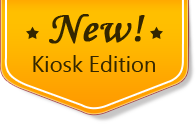
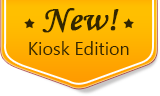
Scroll, form, video updates

diff --git a/desktop.bundles/index/index.bemjson.js b/desktop.bundles/index/index.bemjson.js
@@ -128,37 +128,37 @@ module.exports = {
                                         content: [
                                             {
                                                 block: 'input',
-                                                mods: { theme: 'islands', size: 'm', width: 'available' },
+                                                mods: { theme: 'islands', size: 'xl', width: 'available' },
                                                 name: 'Subject',
                                                 placeholder: 'Subject'
                                             },
                                             {
                                                 block: 'textarea',
-                                                mods: { theme: 'islands', size: 'm', width: 'available' },
+                                                mods: { theme: 'islands', size: 'xl', width: 'available' },
                                                 name: 'Message',
                                                 placeholder: 'Enter your message here...'
                                             },
                                             {
                                                 block: 'input',
-                                                mods: { theme: 'islands', size: 'm', width: 'available' },
+                                                mods: { theme: 'islands', size: 'xl', width: 'available' },
                                                 name: 'Name',
                                                 placeholder: 'Your name'
                                             },
                                             {
                                                 block: 'input',
-                                                mods: { theme: 'islands', size: 'm', width: 'available' },
+                                                mods: { theme: 'islands', size: 'xl', width: 'available' },
                                                 name: 'Organization',
                                                 placeholder: 'Your organization'
                                             },
                                             {
                                                 block: 'input',
-                                                mods: { theme: 'islands', size: 'm', width: 'available' },
+                                                mods: { theme: 'islands', size: 'xl', width: 'available' },
                                                 name: 'Email',
                                                 placeholder: 'Your email'
                                             },
                                             {
                                                 block: 'button',
-                                                mods: { theme: 'md', size: 'm', type: 'submit' },
+                                                mods: { theme: 'md', size: 'm', type: 'submit', disabled: true },
                                                 mix: { block: 'form', elem: 'submit' },
                                                 text: 'Send'
                                             },
@@ -174,16 +174,19 @@ module.exports = {
                                 block: 'section',
                                 elem: 'thanks',
                                 elemMods: { hidden: true },
-                                content: [
-                                    {
-                                        elem: 'thanks-main',
-                                        content: 'Thanks for your message.'
-                                    },
-                                    {
-                                        elem: 'thanks-sub',
-                                        content: 'Please allow 1-2 business days for a response.'
-                                    }
-                                ]
+                                content: {
+                                    elem: 'thanks-inner',
+                                    content: [
+                                        {
+                                            elem: 'thanks-main',
+                                            content: 'Thanks for your message.'
+                                        },
+                                        {
+                                            elem: 'thanks-sub',
+                                            content: 'Please allow 1-2 business days for a response.'
+                                        }
+                                    ]
+                                }
                             }
                         ]
                     }

diff --git a/common.blocks/section/_type/section_type_main.js b/common.blocks/section/_type/section_type_main.js
@@ -1,12 +1,12 @@
-modules.define('section', ['i-bem__dom', 'button', 'modal', 'jquery'],
-    function(provide, BEMDOM, Button, Modal, $) {
+modules.define('section', ['i-bem__dom', 'button', 'modal', 'jquery', 'input', 'textarea'],
+    function(provide, BEMDOM, Button, Modal, $, Input, Textarea) {
 
 provide(BEMDOM.decl({ block: this.name, modName: 'type', modVal: 'main' }, {
     onSetMod: {
         js: {
             inited: function() {
-                this
-                    ._initVideo()
+                this.__base.apply(this, arguments);
+                this._initVideo()
                     ._initFeedback();
             }
         }
@@ -14,9 +14,14 @@ provide(BEMDOM.decl({ block: this.name, modName: 'type', modVal: 'main' }, {
     _initFeedback: function() {
         var feedbackLink = this.findBlockOn(this.elem('feedback'), 'link'),
             modal = this.findBlockOn(this.elem('feedback'), 'modal'),
-            form = modal.findBlockInside('form'),
+            form = this._form = modal.findBlockInside('form'),
             feedbackForm = this.elem('feedback-form'),
             thanks = this.elem('thanks');
+
+        this._submitButton = form.findBlockInside({ block: 'button', modName: 'type', modVal: 'submit' });
+
+        Input.on(form.domElem, 'change', this.validateForm, this);
+        Textarea.on(form.domElem, 'change', this.validateForm, this);
 
         feedbackLink.on('click', function() {
             modal.setMod('visible');
@@ -25,7 +30,7 @@ provide(BEMDOM.decl({ block: this.name, modName: 'type', modVal: 'main' }, {
         form.on('submit', function(e) {
             e.preventDefault();
 
-            console.log(form.domElem.serializeArray());
+            // console.log(form.domElem.serializeArray());
 
             $.post('http://www.magicdesktop.com/en-US/Support', form.domElem.serializeArray())
                 .done(function() {
@@ -36,6 +41,9 @@ provide(BEMDOM.decl({ block: this.name, modName: 'type', modVal: 'main' }, {
                 });
             // method: 'post',
             // action: 'http://www.magicdesktop.com/en-US/Support',
+
+            thanks.width(feedbackForm.width());
+            thanks.height(feedbackForm.height());
 
             this
                 .setMod(feedbackForm, 'hidden')
@@ -54,6 +62,13 @@ provide(BEMDOM.decl({ block: this.name, modName: 'type', modVal: 'main' }, {
         }, this);
 
         return this;
+    },
+    validateForm: function() {
+        var isFormFilled = this._form.domElem.serializeArray().every(function(formDataItem) {
+            return formDataItem.value;
+        });
+
+        this._submitButton.setMod('disabled', !isFormFilled);
     },
     _initVideo: function() {
         var modal = this.findBlockOn(this.elem('video-modal'), 'modal'),

diff --git a/common.blocks/page/page.js b/common.blocks/page/page.js
@@ -1,0 +1,50 @@
+modules.define('page', ['i-bem__dom', 'scroll'], function(provide, BEMDOM, Scroll) {
+
+provide(BEMDOM.decl(this.name, {
+    onSetMod: {
+        js: {
+            inited: function() {
+                this.sectionIds = ['main', 'values'];
+                this._sections = this.findBlocksInside('section');
+                this._scroll = new Scroll(document.body);
+
+                var hash = window.location.hash.substr(1) || 'main';
+                this._currentSectionIdx = this.sectionIds.indexOf(hash);
+
+                this._scrollY = this.getScrollY();
+                // TODO: тротлинг
+                this.bindToWin('scroll', this._onScroll);
+            }
+        }
+    },
+    getScrollY: function() {
+        return window.pageYOffset || document.documentElement.scrollTop;
+    },
+    _onScroll: function() {
+        var _this = this,
+            currentY = this.getScrollY(),
+            isMovingDown = currentY - this._scrollY > 0;
+
+        this._scrollY = currentY;
+        this._currentSectionIdx = isMovingDown ? this._currentSectionIdx + 1 : this._currentSectionIdx - 1;
+
+        if (this._currentSectionIdx >= this._sections.length)  {
+            this._currentSectionIdx = this._sections.length - 1;
+            return;
+        } else if (this._currentSectionIdx < 0) {
+            this._currentSectionIdx = 0;
+            return;
+        }
+
+        this.unbindFromWin('scroll', this._onScroll);
+
+        var nextSection = this._sections[this._currentSectionIdx].domElem[0];
+
+        this._scroll.toElement(nextSection, { duration: 500 }).then(function() {
+            window.location.hash = _this.sectionIds[_this._currentSectionIdx];
+            _this.bindToWin('scroll', _this._onScroll);
+        });
+    }
+}));
+
+});

diff --git a/common.blocks/section/_type/section_type_values.css b/common.blocks/section/_type/section_type_values.css
@@ -34,16 +34,18 @@
     border-radius: 50%;
 
     background: #fff no-repeat 50% 50%;
-    box-shadow: 0 2px rgba(0, 0, 0, .5);
+    box-shadow: 0 2px rgba(0, 0, 0, .2);
 
     content: "";
 }
 
 .section__values .dl__dt_type_cost:before {
+    background-position: 50% 10px;
     background-image: url(dl__dt_type_cost.png);
 }
 
 .section__values .dl__dt_type_content:before {
+    background-position: 50% 18px;
     background-image: url(dl__dt_type_content.png);
 }
 
@@ -56,5 +58,6 @@
 }
 
 .section__values .dl__dt_type_support:before {
+    background-position: 15px 15px;
     background-image: url(dl__dt_type_support.png);
 }

diff --git a/common.blocks/form/form.css b/common.blocks/form/form.css
@@ -17,3 +17,18 @@
 
     width: 170px;
 }
+
+/* TODO: move to separate files */
+.input_theme_islands.input_theme_islands .input__control {
+    font-family: "wf_SegoeUI", "Segoe UI", "Segoe", "wf_segoe-ui_normal", "Segoe WP", Tahoma, Verdana, Arial, sans-serif;
+    font-size: 16px;
+}
+
+.textarea_theme_islands.textarea_theme_islands.textarea_size_xl {
+    font-family: "wf_SegoeUI", "Segoe UI", "Segoe", "wf_segoe-ui_normal", "Segoe WP", Tahoma, Verdana, Arial, sans-serif;
+    font-size: 16px;
+}
+
+.input_theme_islands.input_theme_islands.input_size_xl .input__control {
+    height: 43px;
+}

diff --git a/common.blocks/section/_type/section_type_main.css b/common.blocks/section/_type/section_type_main.css
@@ -44,8 +44,8 @@
 }
 
 .section__video-modal .modal__content {
-    width: 560px;
-    height: 315px;
+    width: 800px;
+    height: 450px;
 }
 
 .section__feedback-form_hidden {
@@ -63,6 +63,10 @@
 }
 
 .section__thanks {
+    display: flex;
+    justify-content: center;
+    align-items: center;
+
     text-align: center;
 }
 
@@ -70,12 +74,12 @@
     display: none;
 }
 
-.section__thanks:before {
+.section__thanks-inner:before {
     display: block;
 
     width: 120px;
     height: 120px;
-    margin: 38px auto;
+    margin: 0 auto 28px;
 
     border-radius: 50%;
 

diff --git a/common.blocks/header/header.css b/common.blocks/header/header.css
@@ -10,9 +10,9 @@
     position: absolute;
     top: 0;
     left: 50%;
-    width: 196px;
-    height: 124px;
-    margin-left: -98px;
+    width: 160px;
+    height: 96px;
+    margin-left: -80px;
 
     background: url(header__badge.png) no-repeat;
 }

diff --git a/common.blocks/button/button.css b/common.blocks/button/button.css
@@ -12,6 +12,11 @@
     background: linear-gradient(to bottom, #a3a3a3 0, #828282 100%);
 }
 
+.button_theme_md.button_disabled {
+    opacity: .5;
+    cursor: default;
+}
+
 .button_size_m {
     font-size: 1.375em;
     line-height: 38px;

diff --git a/common.blocks/modal/modal.css b/common.blocks/modal/modal.css
@@ -1,9 +1,9 @@
 .modal .textarea {
-    height: 278px;
+    height: 188px;
 }
 
 @media (max-width: 1300px) {
     .modal .textarea {
-        height: 170px;
+        height: 100px;
     }
 }

diff --git a/common.blocks/video/video.css b/common.blocks/video/video.css
@@ -7,7 +7,7 @@
     position: absolute;
     /*width: 100%;
     height: 100%;*/
-    width: 560px;
-    height: 315px;
+    width: 800px;
+    height: 450px;
     border: none;
 }

diff --git a/common.blocks/modal/__close/modal__close.css b/common.blocks/modal/__close/modal__close.css
@@ -4,8 +4,11 @@
     top: -18px;
     right: 0;
 
+    padding: 12px 7px;
+
     cursor: pointer;
 
     font-size: 2.25em;
+    font-weight: bold;
     color: #333;
 }

diff --git a/common.blocks/scroll/scroll.js b/common.blocks/scroll/scroll.js
@@ -1,0 +1,7 @@
+modules.define('scroll', function(provide) {
+
+/*borschik:include:../../libs/scroll-js/dist/scroll.js*/
+
+provide(Scroll);
+
+});
